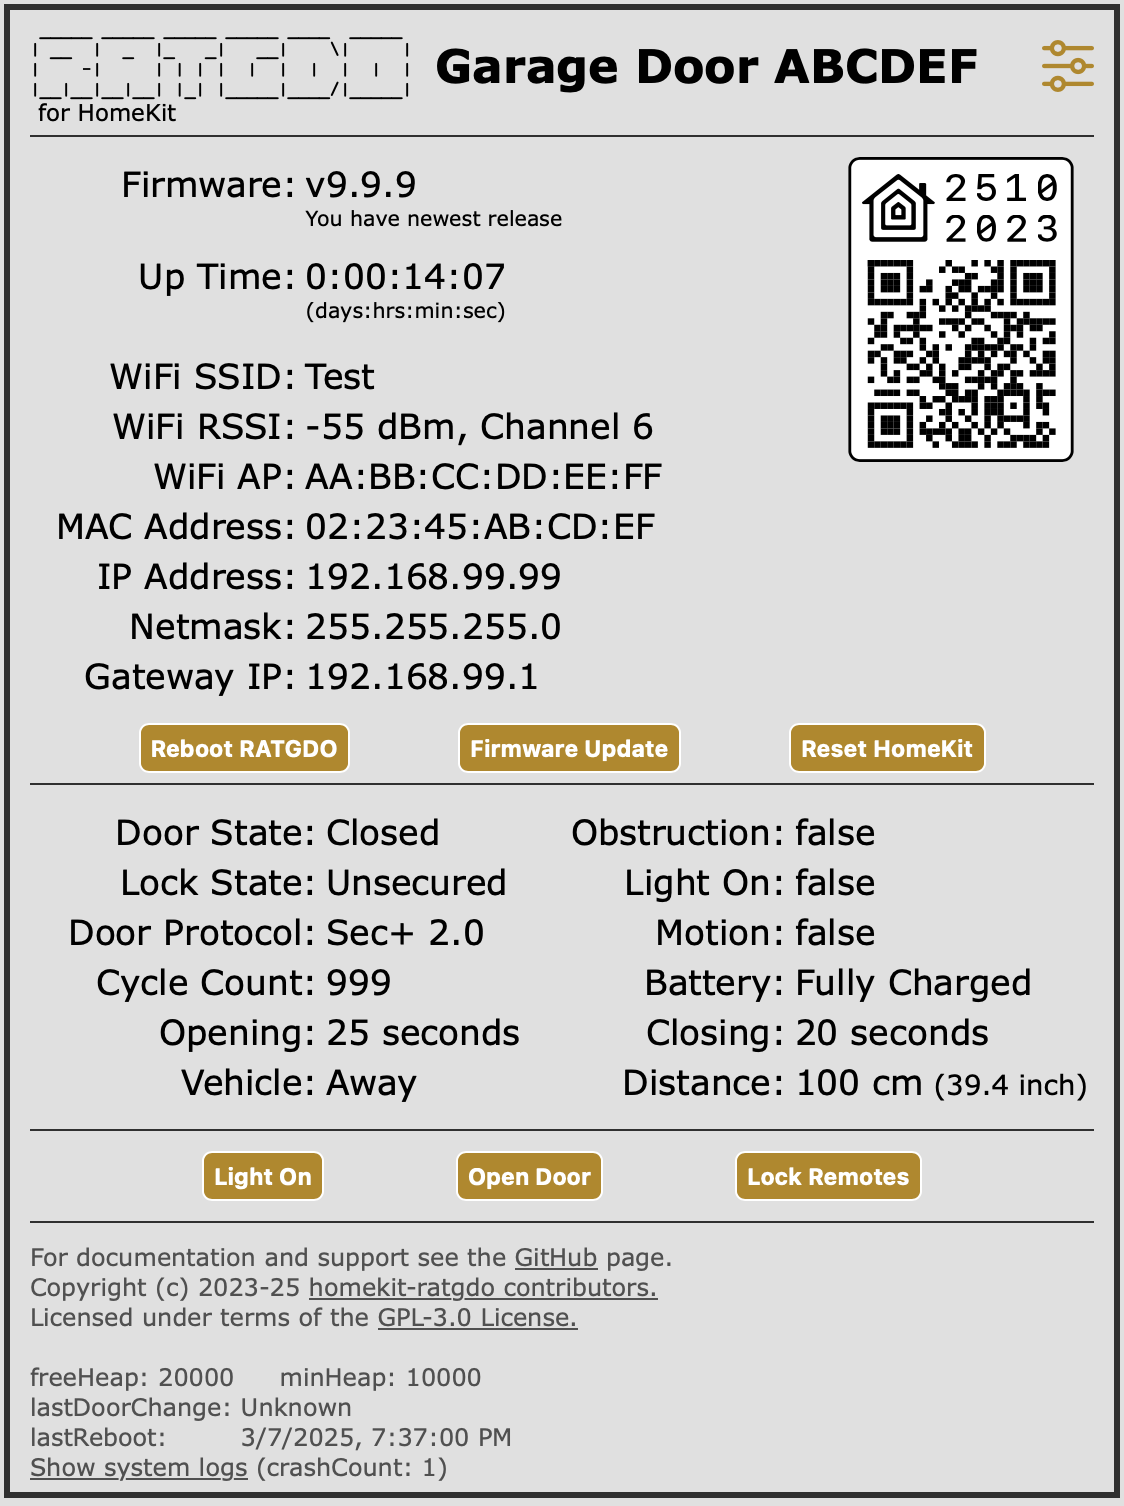
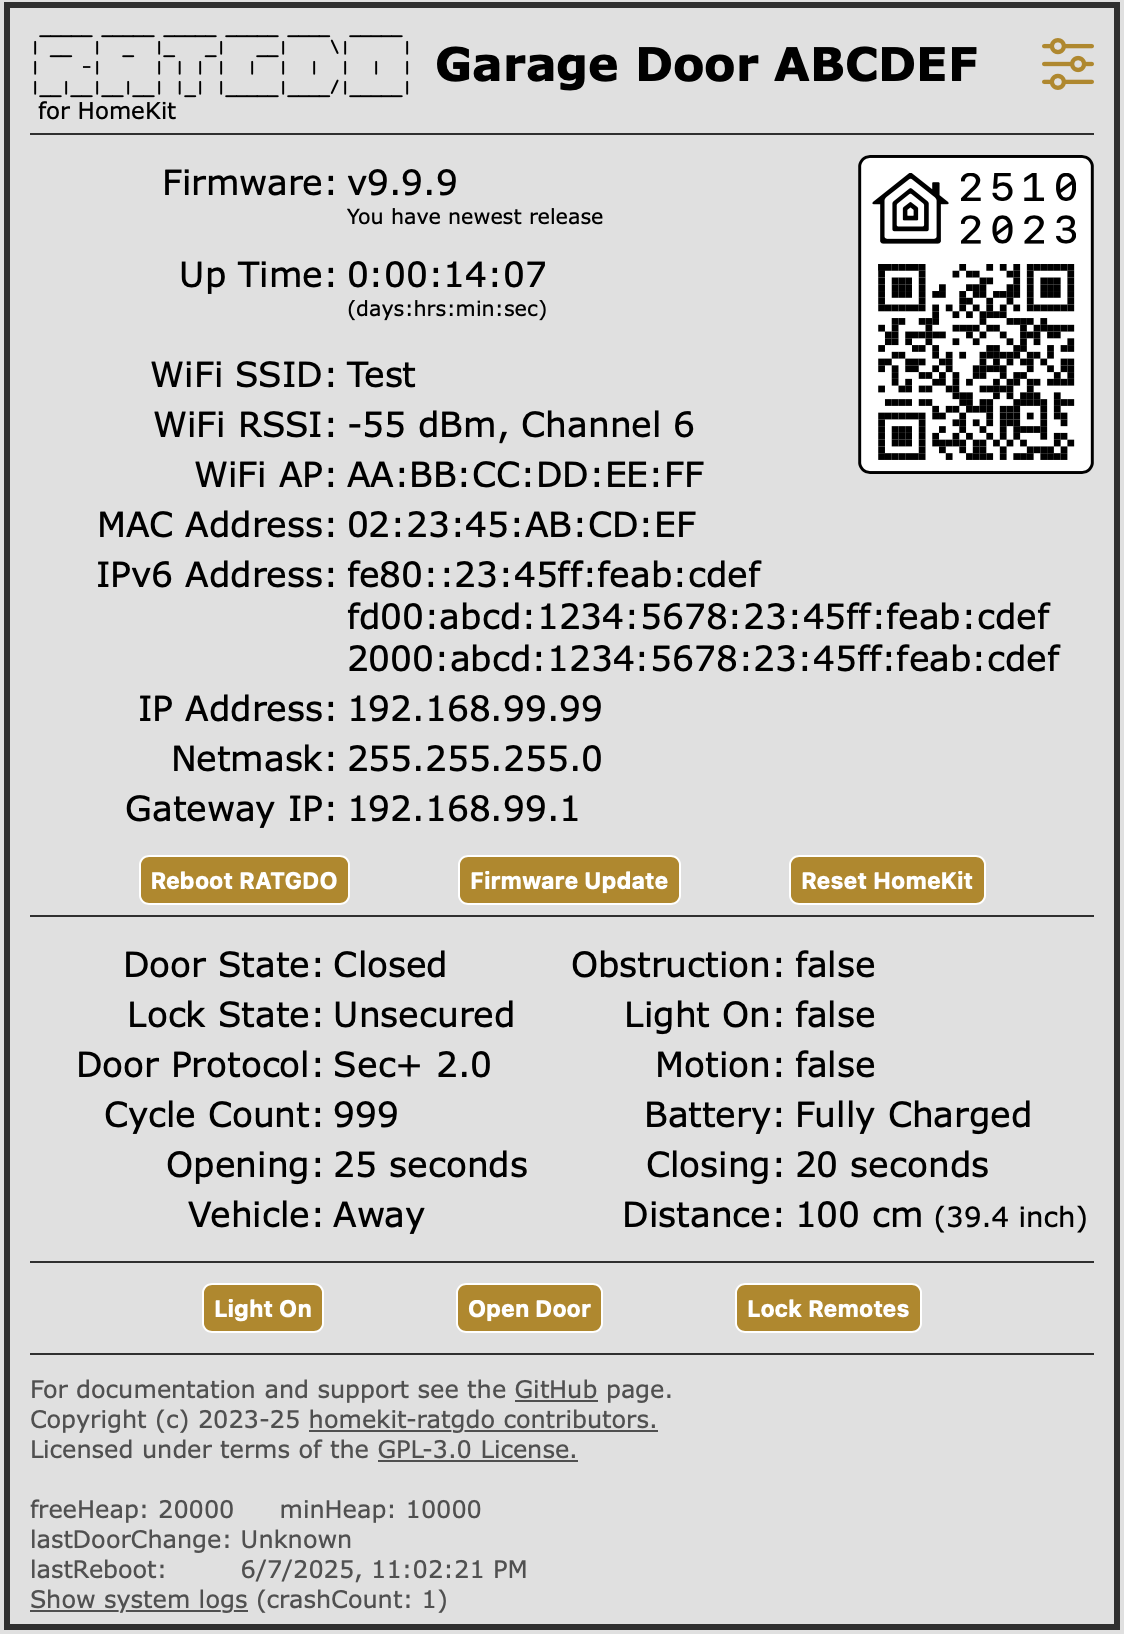
Update CHANGELOG.md and README.md

Changed region(s): [[0.0, 0.0, 0.9964, 0.9987]]

diff --git a/README.md b/README.md
@@ -96,6 +96,9 @@ This section also displays the current firmware version, with a statement on whe
 > [!NOTE]
 > If the word _locked_ appears after the WiFi AP identifier then the ratgdo device will _only_ connect to that WiFi Access Point. See warning in the [Set WiFi SSID](#set-wifi-ssid) section below.
 
+> [!NOTE]
+> A link local IPv6 address (LLA) will always be shown even if your network does not support IPv6.  If your network does support IPv6 then Global Unicast Address (GUA) and/or Unique Local Address (ULA) will be displayed as well.
+
 ### Garage door opener status
 
 Status of the garage door along with action buttons are shown in this section.  The status values are updated in real time whether triggered by one of the action buttons or an external action (motion in the garage, someone using a door remote).

diff --git a/CHANGELOG.md b/CHANGELOG.md
@@ -4,6 +4,12 @@
 
 All notable changes to `homekit-ratgdo32` will be documented in this file. This project tries to adhere to [Semantic Versioning](http://semver.org/).
 
+## v3.1.10 (2025-06-08)
+
+### What's Changed
+
+* Feature: Enable IPv6 (PR #74) with thanks to https://github.com/apearson
+
 ## v3.1.9 (2025-05-11)
 
 ### What's Changed
